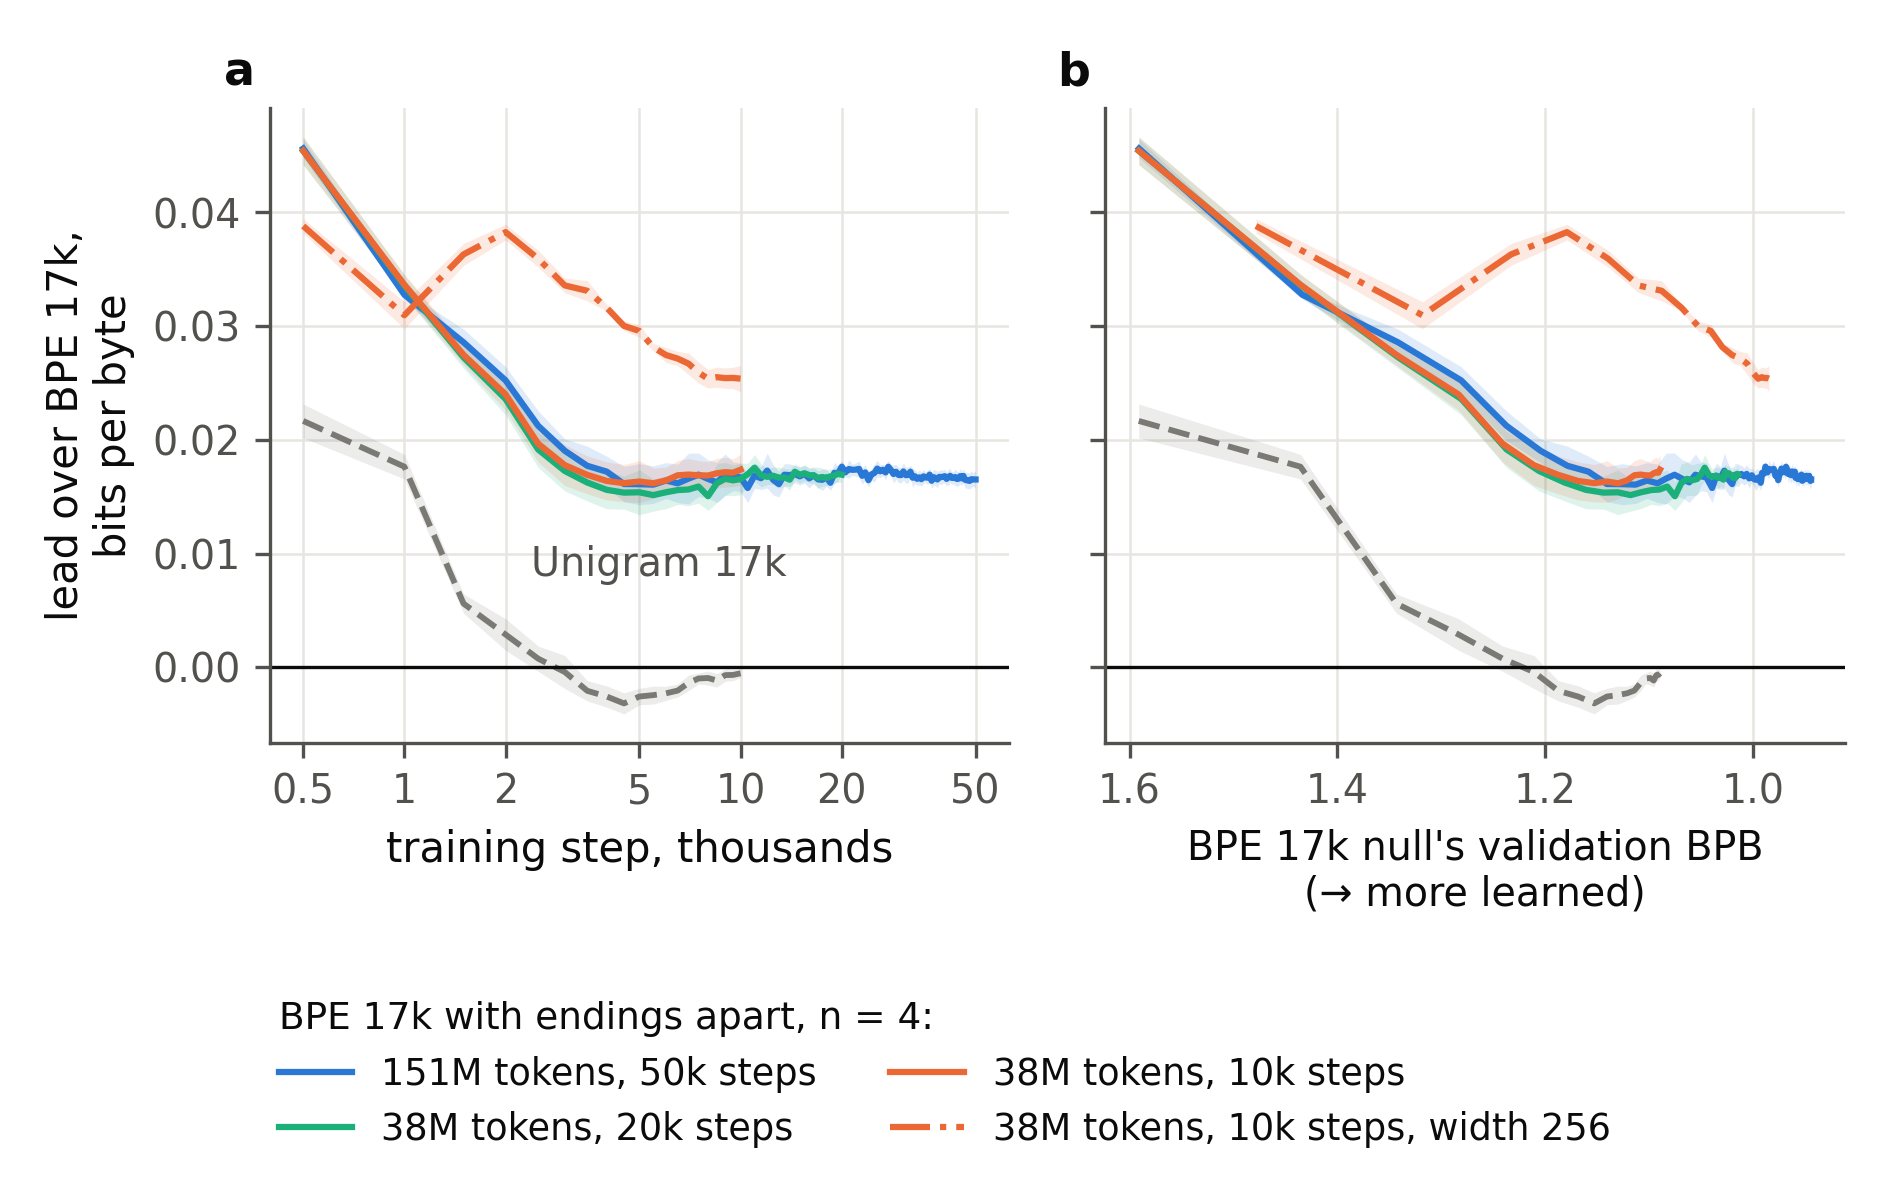
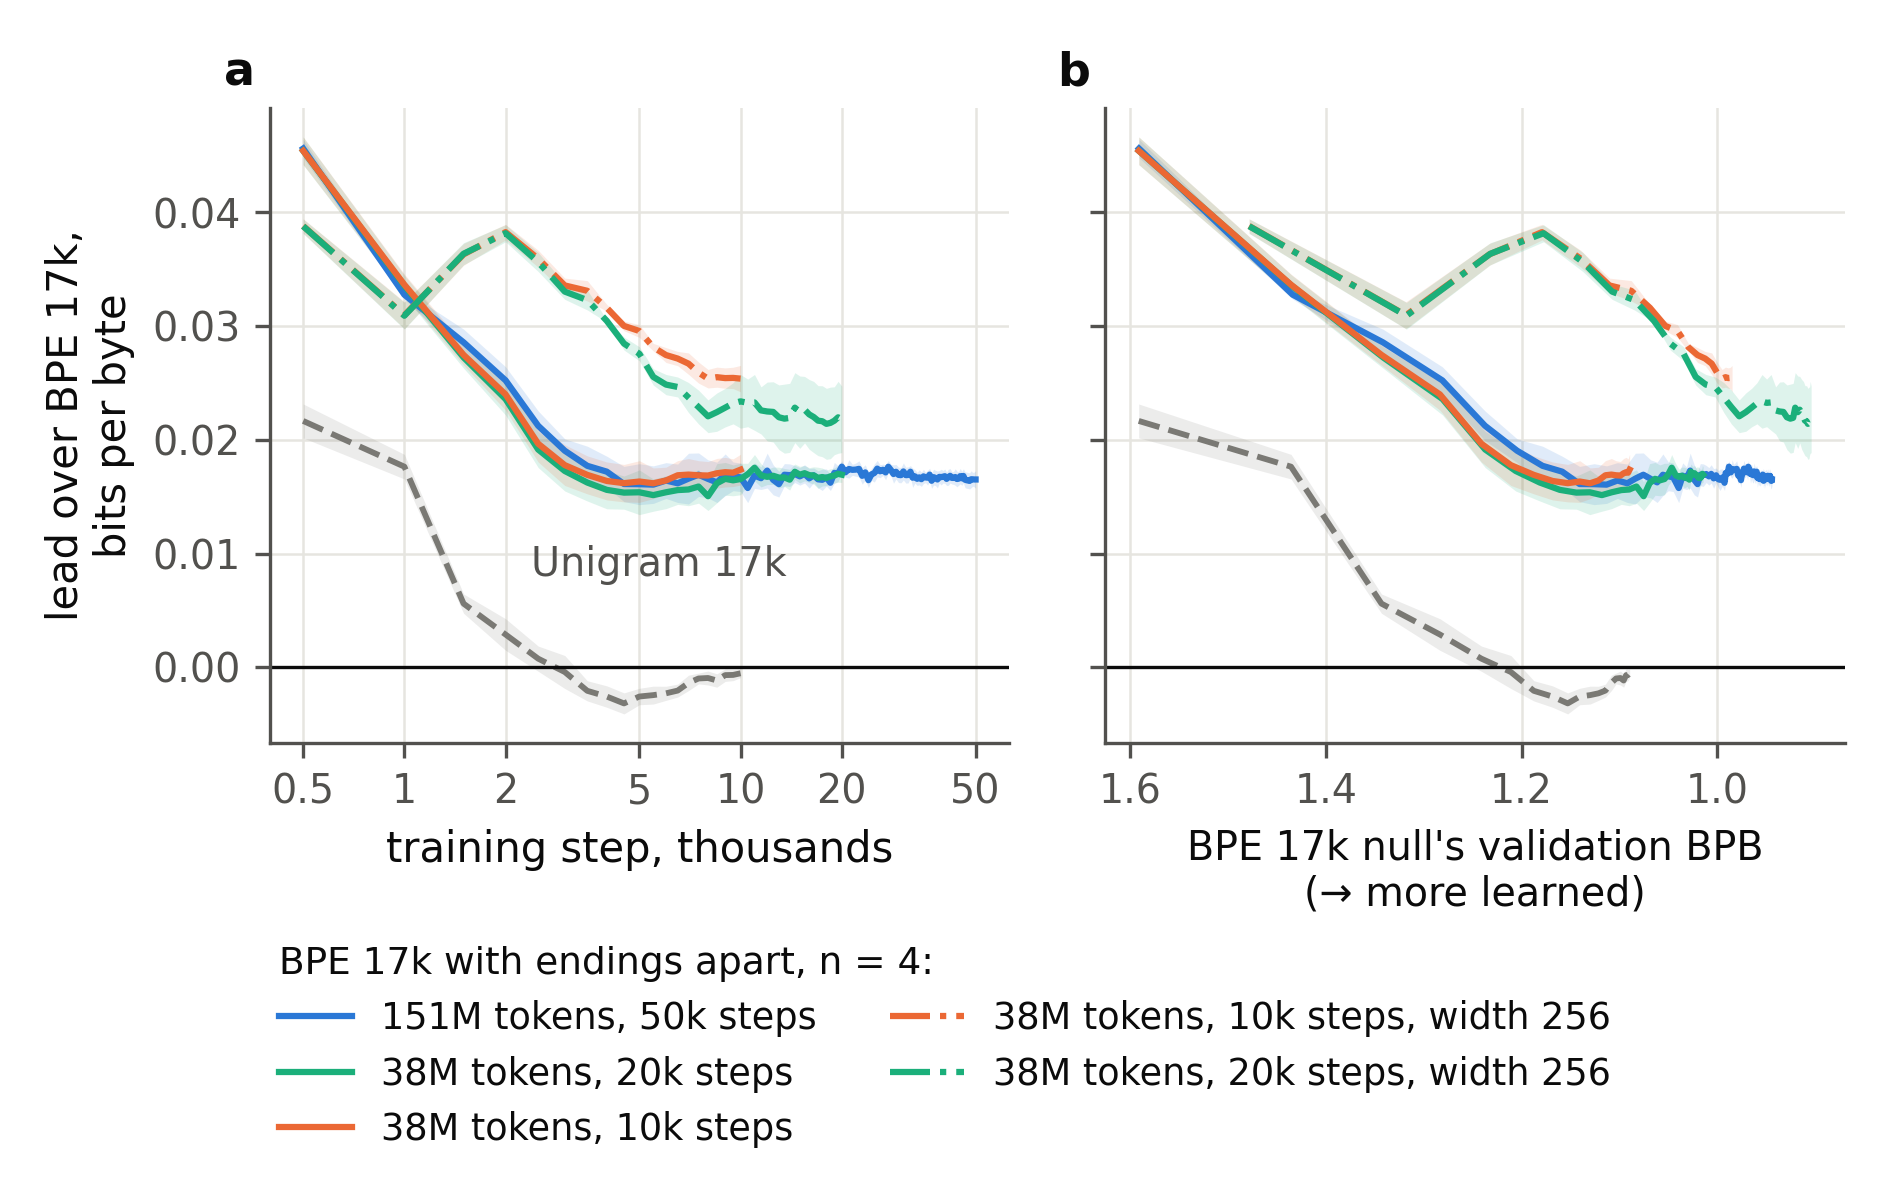
Thesis figures: width 256 at 20k in fig_tokenizer; one term in Ukrainian
- fig_tokenizer (uk, en): a fifth line, 38M tokens at 20k and width 256
  (dash-dot, the 20k colour), in both panels: the lead settling at +0.0218
  (2.4%; FINDINGS, Q1 in Ukrainian; journey §33.86). The 10k line at
  width 256 stays; the two separate after step 3,000.
- Ukrainian figures say «з відокремленими закінченнями» (was «флексіями»):
  fig_tokenizer's legend title and fig_law_ukrainian's panel б.

exports/figures/{uk,en} refreshed; no number changes.

diff --git a/scripts/analysis/thesis_figures.py b/scripts/analysis/thesis_figures.py
@@ -82,7 +82,7 @@ TXT = {
         'null_bpb': 'BPB контролю на валідації\n(→ модель навчилася більше)',
         'ref_bpb': 'BPB контролю BPE 17k на валідації\n(→ модель навчилася більше)',
         'lead': 'перевага над BPE 17k,\nбіти на байт',
-        'tok_title': 'BPE 17k з відокремленими флексіями, n = 4:',
+        'tok_title': 'BPE 17k з відокремленими закінченнями, n = 4:',
         'letters': 'абвг',
         'q2': [('англійська: структура слова', EN('mconst'), EN('mstruct'), 0),
                ('контроль: перемішана структура', EN('mconst'), EN('mstructshuf'), None),
@@ -108,11 +108,12 @@ TXT = {
                     ('ширина 64, 10 тис. кроків', EN('mconst') + '_st10k_w64', EN('pos') + '_st10k_w64')]),
             (1.25, [(n, T('mconst', t), T('ucase', t)) for n, t in (
                 ('BPE 4k', 'bpe_uk_4k'), ('BPE 8k', 'bpe_uk_8k'), ('BPE 17k', 'bpe_uk_17k'), ('BPE 32k', 'bpe_uk_32k'),
-                ('Unigram 17k', 'unigram_uk_17k'), ('BPE 17k з відокремленими\nфлексіями', 'bpeend_uk_17k'))])],
+                ('Unigram 17k', 'unigram_uk_17k'), ('BPE 17k з відокремленими\nзакінченнями', 'bpeend_uk_17k'))])],
         'tok': [('151 млн токенів, 50 тис. кроків', '0.2', '', 0, '-'),
                 ('38 млн токенів, 20 тис. кроків', '0.05', '_st20k', 2, '-'),
                 ('38 млн токенів, 10 тис. кроків', '0.05', '_st10k', 1, '-'),
-                ('38 млн токенів, 10 тис. кроків, ширина 256', '0.05', '_st10k_w256', 1, '-.')],
+                ('38 млн токенів, 10 тис. кроків, ширина 256', '0.05', '_st10k_w256', 1, '-.'),
+                ('38 млн токенів, 20 тис. кроків, ширина 256', '0.05', '_st20k_w256', 2, '-.')],
         'unigram': 'Unigram 17k',
     },
     'en': {
@@ -138,7 +139,8 @@ TXT = {
         'tok': [('151M tokens, 50k steps', '0.2', '', 0, '-'),
                 ('38M tokens, 20k steps', '0.05', '_st20k', 2, '-'),
                 ('38M tokens, 10k steps', '0.05', '_st10k', 1, '-'),
-                ('38M tokens, 10k steps, width 256', '0.05', '_st10k_w256', 1, '-.')],
+                ('38M tokens, 10k steps, width 256', '0.05', '_st10k_w256', 1, '-.'),
+                ('38M tokens, 20k steps, width 256', '0.05', '_st20k_w256', 2, '-.')],
         'unigram': 'Unigram 17k',
     },
 }
